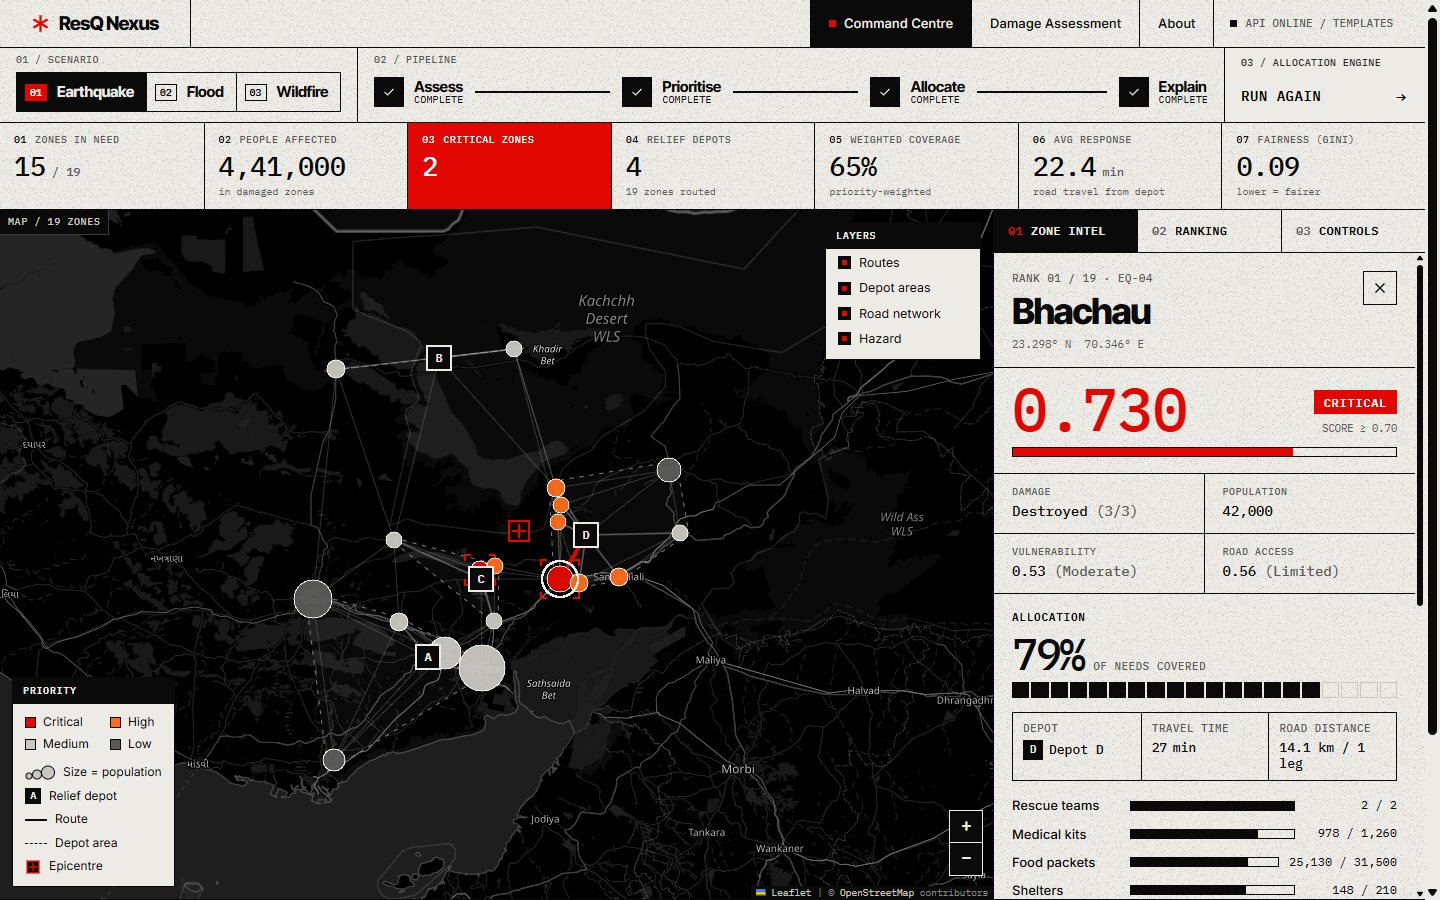
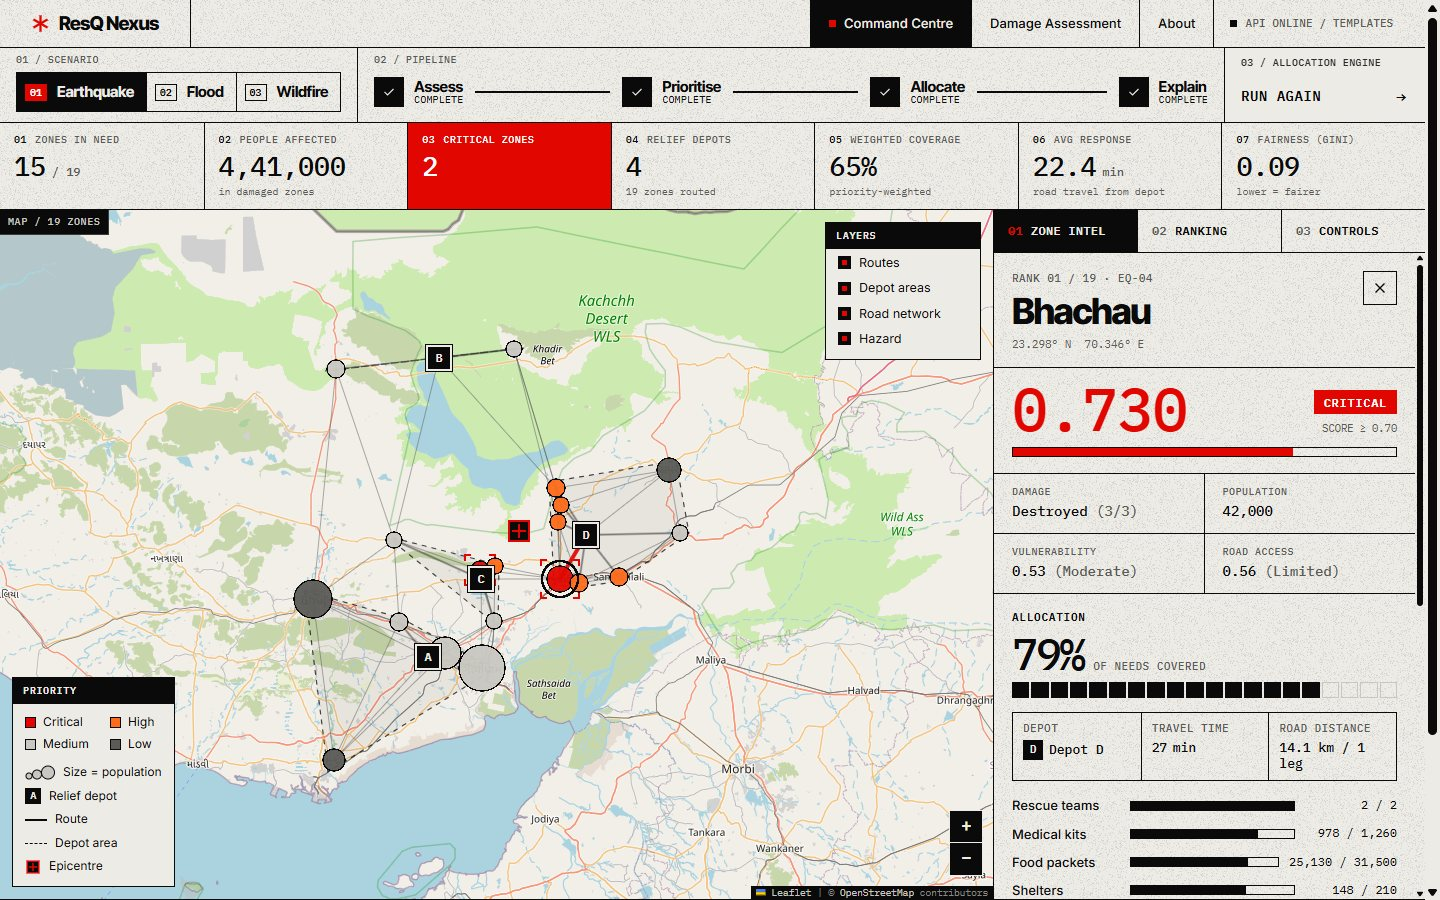
docs: colour map in the README and screenshot
Describes the full-colour OpenStreetMap basemap and replaces the
Command Centre screenshot.

diff --git a/README.md b/README.md
@@ -21,10 +21,10 @@ It follows a four-stage pipeline: **Assess → Prioritise → Allocate → Expla
   **Launch Command Centre** button, and a card for each demo scenario.
 - **Command Centre** (main dashboard):
   - scenario selector (flood / earthquake / wildfire)
-  - a large dark grayscale map: zones coloured by priority and sized by population, blinking
-    corner brackets on Critical zones, the hazard (earthquake epicentre, fire ignition areas),
-    square relief depots, depot areas, the road network, and solid route lines that draw in from
-    each depot to its zones
+  - a large OpenStreetMap map in its original colours: zones coloured by priority and sized by
+    population, blinking corner brackets on Critical zones, the hazard (earthquake epicentre, fire
+    ignition areas), square relief depots, depot areas, the road network, and solid route lines
+    that draw in from each depot to its zones
   - priority weight sliders that re-score and recolour the zones live
   - **Run allocation** switches the pipeline stepper step by step while the engine runs; changing
     the weights afterwards marks the plan as out of date until it is re-run
@@ -66,9 +66,10 @@ visible grid.
   large standalone numerals and an asterisk brand mark repeat across the pages.
 - **Photographs:** high-contrast grayscale photographs of concrete buildings, flood, earthquake
   and wildfire damage, stored in `frontend/src/assets/photos/` (see [Credits](#credits)).
-- **Map:** standard OpenStreetMap tiles turned into a dark grayscale map by one CSS filter (no API
-  key needed). Priority colours: Critical `#E10600`, High `#FF6B1A`, Medium `#C9C7C1`, Low
-  `#5A5A57`. Depots are square markers and routes are solid lines.
+- **Map:** standard OpenStreetMap tiles in their original colours, so towns, roads, rivers and
+  terrain stay easy to read (no API key needed). The overlays follow the site's style: priority
+  colours Critical `#E10600`, High `#FF6B1A`, Medium `#C9C7C1`, Low `#5A5A57` with black outlines,
+  square depot markers and solid black routes.
 - **Motion:** hard slide-ins, quick reveals on scroll, headings that wipe in, instant hover
   inversions, counting mono numbers and routes that draw in on the map. Nothing bounces or floats,
   and "reduce motion" turns the animations off.
@@ -541,7 +542,7 @@ stage has real trade-offs to make.
 
 - Map data © [OpenStreetMap contributors](https://www.openstreetmap.org/copyright) (ODbL). Map
   tiles come from `tile.openstreetmap.org`, which suits light demo use under the OSM tile usage
-  policy; the site shows them in grayscale.
+  policy.
 - Fonts: Inter Tight, Inter and IBM Plex Mono (SIL Open Font License), self-hosted via Fontsource.
 - Built on the Script Desk template (React/Vite + FastAPI + Google Gemini).
 
